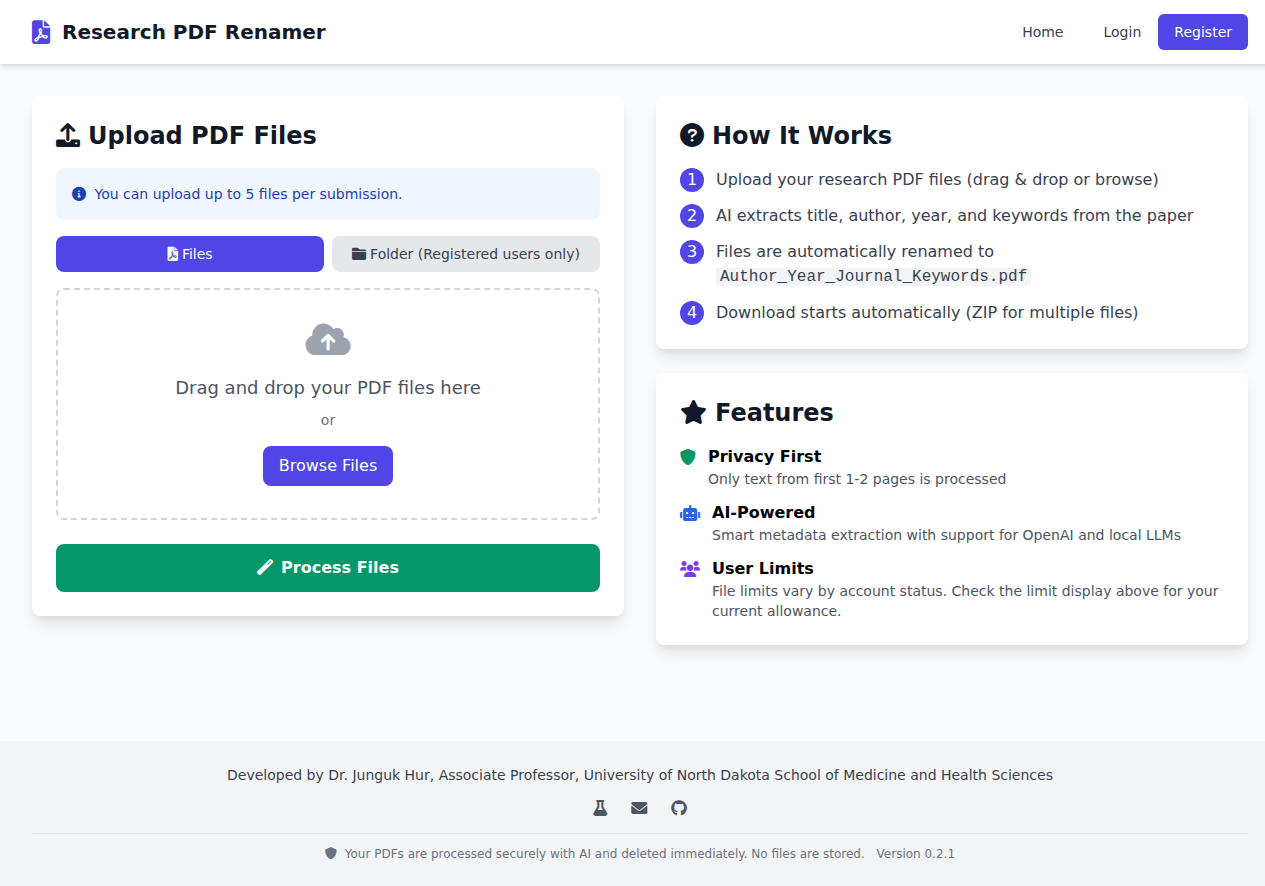
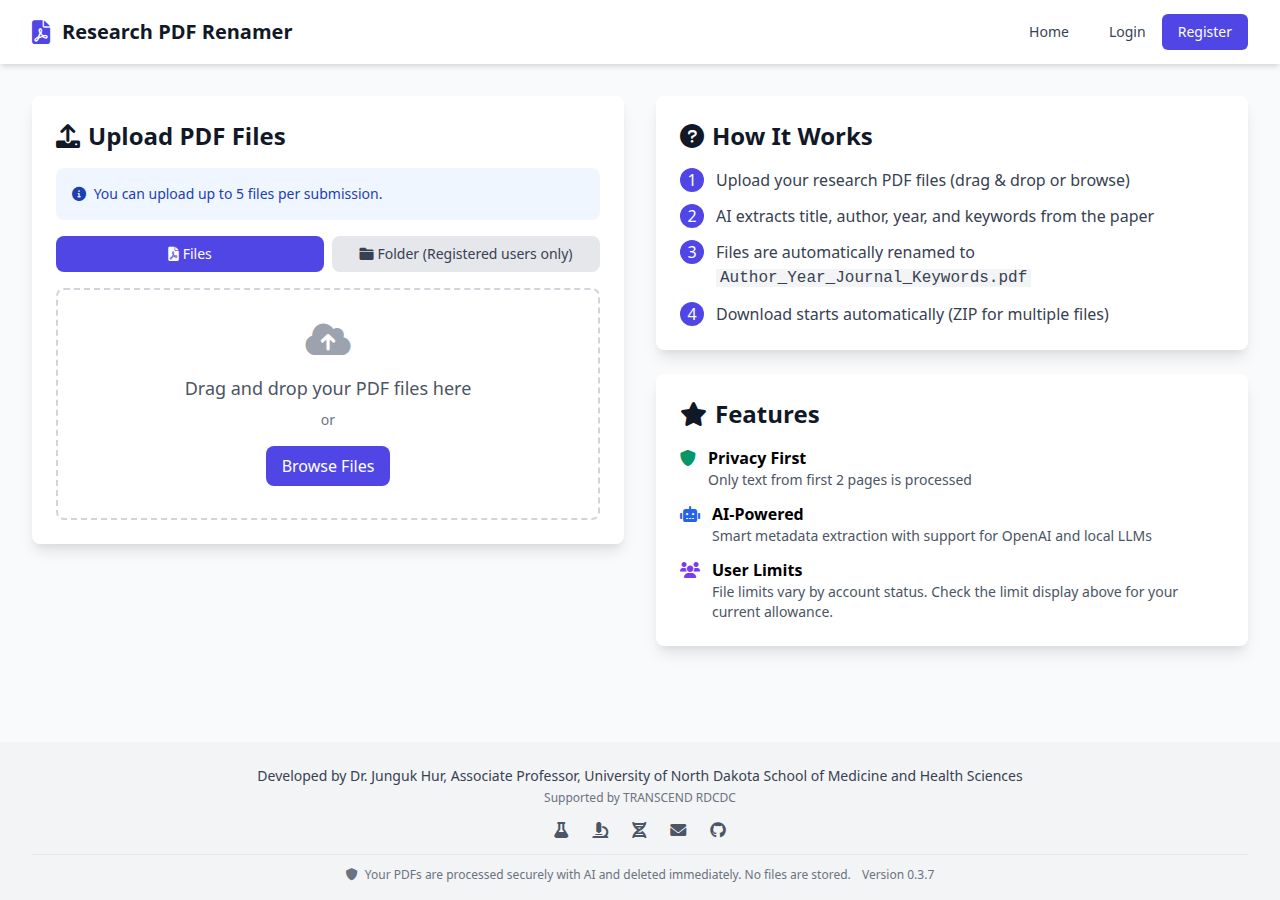
docs: refresh all 7 README screenshots for v0.4.0 UI
Updated screenshots reflect current interface (logged-in nav, 30-file
limit, connected LLM status). Private IP and real email addresses
redacted. README last-updated date bumped to 2026-04-30.

diff --git a/README.md b/README.md
@@ -387,4 +387,4 @@ MIT License. See [LICENSE](LICENSE) for details.
 
 Developed by [Dr. Junguk Hur](https://med.und.edu/research/labs/hur/index.html), Associate Professor, University of North Dakota School of Medicine and Health Sciences
 
-*Last updated: April 8, 2026*
+*Last updated: April 30, 2026*
